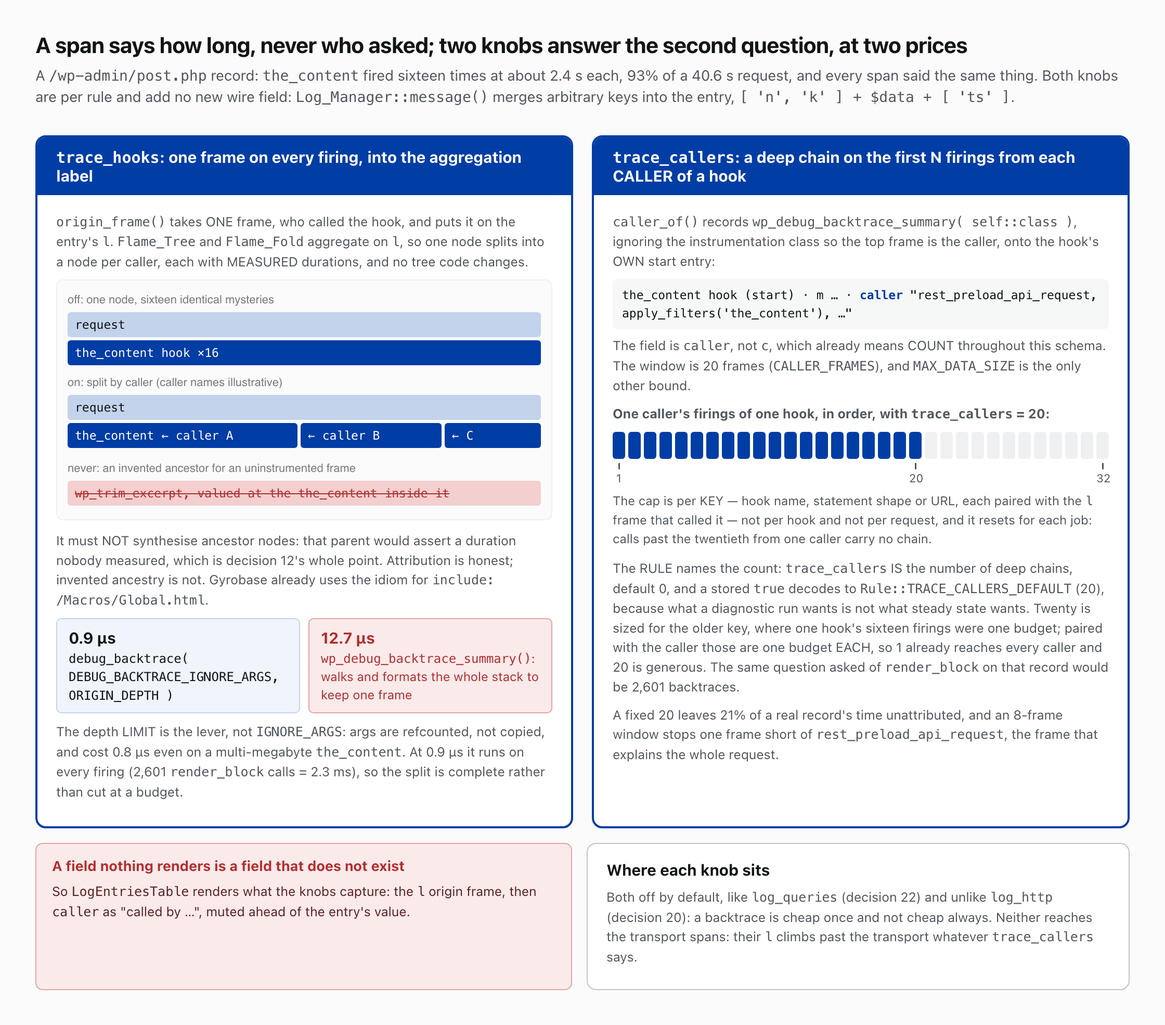
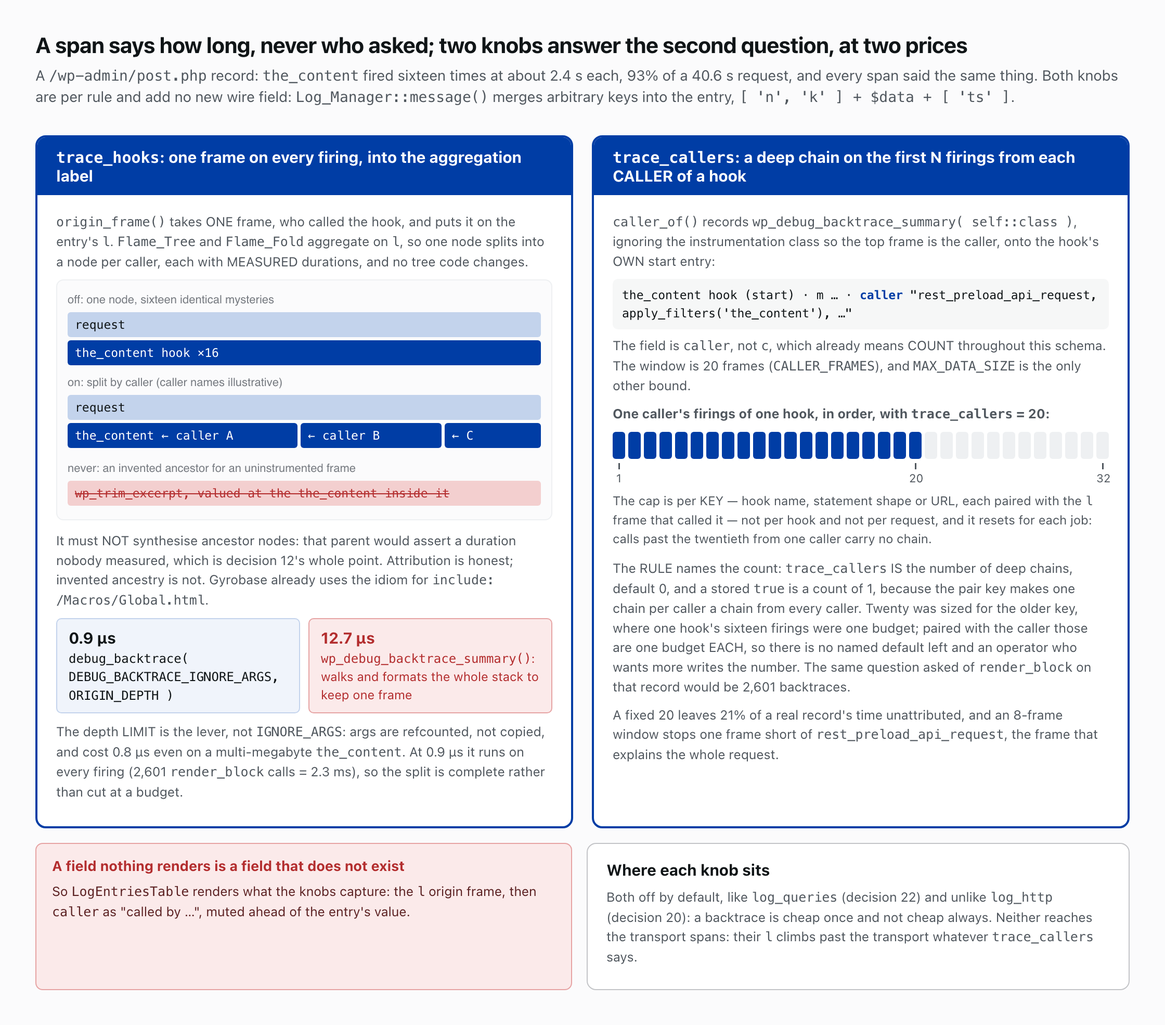
fix(rules): drop the named trace-callers default, unsqueeze its row
TRACE_CALLERS_DEFAULT was never a default. The editor seeds its field
from the stored value or 0, to_array() writes a typed int, and nothing in
the plugin ever stored `true`, so the constant reached exactly one place:
to_trace_count() decoding a literal `true` from a hand-written upsert.
That now reads as 1, which under the per-caller budget is one chain from
every caller rather than twenty from whichever fired first.

The rule editor's trace row collapsed its help text to one word per line.
rule-edit-trace-count set white-space: nowrap across the whole block, so
its min-content width was the suffix sentence and no flex shrink could go
below it, while the checkbox beside it sat at flex: 1 with a basis of 0.
The suffix wraps now, the checkbox has a 320px floor, and the row wraps
below that. Verified on the rendered settings page.

Changed region(s): [[0.5312, 0.5574, 0.9375, 0.6812]]

diff --git a/docs/img/dec-provenance-knobs.html b/docs/img/dec-provenance-knobs.html
@@ -61,7 +61,7 @@
       <div class="strip"><span class="bt"></span><span class="bt"></span><span class="bt"></span><span class="bt"></span><span class="bt"></span><span class="bt"></span><span class="bt"></span><span class="bt"></span><span class="bt"></span><span class="bt"></span><span class="bt"></span><span class="bt"></span><span class="bt"></span><span class="bt"></span><span class="bt"></span><span class="bt"></span><span class="bt"></span><span class="bt"></span><span class="bt"></span><span class="bt"></span><span></span><span></span><span></span><span></span><span></span><span></span><span></span><span></span><span></span><span></span><span></span><span></span></div>
       <div class="axis2"><span class="tk">1</span><span></span><span></span><span></span><span></span><span></span><span></span><span></span><span></span><span></span><span></span><span></span><span></span><span></span><span></span><span></span><span></span><span></span><span></span><span class="tk">20</span><span></span><span></span><span></span><span></span><span></span><span></span><span></span><span></span><span></span><span></span><span></span><span class="tk">32</span></div>
       <p class="capnote">The cap is per KEY — hook name, statement shape or URL, each paired with the <span class="mono">l</span> frame that called it — not per hook and not per request, and it resets for each job: calls past the twentieth from one caller carry no chain.</p>
-      <p style="margin-top:10px">The RULE names the count: <span class="mono">trace_callers</span> IS the number of deep chains, default 0, and a stored <span class="mono">true</span> decodes to <span class="mono">Rule::TRACE_CALLERS_DEFAULT</span> (20), because what a diagnostic run wants is not what steady state wants. Twenty is sized for the older key, where one hook's sixteen firings were one budget; paired with the caller those are one budget EACH, so 1 already reaches every caller and 20 is generous. The same question asked of <span class="mono">render_block</span> on that record would be 2,601 backtraces.</p>
+      <p style="margin-top:10px">The RULE names the count: <span class="mono">trace_callers</span> IS the number of deep chains, default 0, and a stored <span class="mono">true</span> is a count of 1, because the pair key makes one chain per caller a chain from every caller. Twenty was sized for the older key, where one hook's sixteen firings were one budget; paired with the caller those are one budget EACH, so there is no named default left and an operator who wants more writes the number. The same question asked of <span class="mono">render_block</span> on that record would be 2,601 backtraces.</p>
       <p>A fixed 20 leaves 21% of a real record's time unattributed, and an 8-frame window stops one frame short of <span class="mono">rest_preload_api_request</span>, the frame that explains the whole request.</p>
     </div></div>
 </div>

diff --git a/src/rules/rule-edit-modal.scss b/src/rules/rule-edit-modal.scss
@@ -74,20 +74,30 @@
 		display: flex;
 		align-items: flex-start;
 		gap: 12px;
+		// Below the checkbox's basis the count takes its own line, rather
+		// than the two splitting a width neither can use.
+		flex-wrap: wrap;
 
 		.components-checkbox-control {
-			flex: 1;
+			// A FLOOR, not a share: at `flex: 1` the basis is 0, so the count
+			// beside it — whose suffix is a sentence — claimed the row and
+			// squeezed the help text to one word per line.
+			flex: 1 1 320px;
+			min-width: 0;
 		}
 	}
 
 	.rule-edit-trace-count {
 		display: flex;
-		align-items: center;
+		align-items: baseline;
 		gap: 6px;
-		white-space: nowrap;
+		flex: 0 1 auto;
+		min-width: 0;
 
 		.components-base-control {
 			margin: 0;
+			// The field keeps its width; only the sentence gives way.
+			flex: none;
 		}
 
 		input {

diff --git a/src/rules/__tests__/RuleEditModal.test.js b/src/rules/__tests__/RuleEditModal.test.js
@@ -311,7 +311,7 @@ describe( 'RuleEditModal — log rule fields', () => {
 	} );
 
 	test( 'editing the backtrace count is reflected in the saved draft', () => {
-		// 7 is distinct from 0 (off) and from Rule::TRACE_CALLERS_DEFAULT (20).
+		// 7 is distinct from 0 (off) and from the 1 a stored `true` decodes to.
 		mount( { ...LOG_RULE, trace_hooks: true } );
 		setInput( inDialog( 'input[name="rule-trace-callers"]' ), '7' );
 		click( saveButton() );

diff --git a/includes/class-rule.php b/includes/class-rule.php
@@ -36,17 +36,6 @@ final class Rule {
 	public const HOOKS_INLINE = 'inline';
 
 	/**
-	 * Caller chains one hook, query shape or URL records when `trace_callers`
-	 * is stored as `true` rather than as a count.
-	 *
-	 * Twenty is sized for a hook that fires sixteen times: enough to see a
-	 * repeat whole, few enough that a hot hook stops paying after the first
-	 * twenty. A rule needing a wider window names its own count, because a
-	 * diagnostic run wants what steady state does not.
-	 */
-	public const TRACE_CALLERS_DEFAULT = 20;
-
-	/**
 	 * Hook tier: `hooks` is null and the list lives in a per-rule durable
 	 * option mirrored into memcache, which `Rule_Set::hooks_for()` resolves.
 	 */
@@ -68,7 +57,7 @@ final class Rule {
 	 * @param bool          $log_queries                 Time every SQL query as its own span; needs SAVEQUERIES and costs two entries per query.
 	 * @param bool          $log_http                    Time every outbound HTTP request as its own span, between `pre_http_request` and `http_api_debug`. On by default: a request making no remote calls pays two add_filter() calls and nothing else.
 	 * @param bool          $trace_hooks                 Name the calling frame on each hook entry's aggregation label, so one hook firing sixteen times splits into a flame node per caller. Costs one shallow backtrace per firing.
-	 * @param int           $trace_callers               Deep caller chains recorded per request on a span's start entry as `caller`, budgeted per CALLER of each hook, query statement shape and outbound URL, so a hook asked for from three places traces three times; 0 = off. A stored `true` decodes to self::TRACE_CALLERS_DEFAULT.
+	 * @param int           $trace_callers               Deep caller chains recorded per request on a span's start entry as `caller`, budgeted per CALLER of each hook, query statement shape and outbound URL, so a hook asked for from three places traces three times; 0 = off, and a stored `true` is a count of 1.
 	 *
 	 * @throws \InvalidArgumentException When the pattern is empty, or hooks and hooks_in contradict.
 	 */
@@ -206,8 +195,9 @@ final class Rule {
 	 * @return int Caller chains per hook; 0 when off.
 	 */
 	private static function to_trace_count( mixed $v ): int {
+		// `true` is a count of ONE: the budget keys on the caller.
 		if ( true === $v ) {
-			return self::TRACE_CALLERS_DEFAULT;
+			return 1;
 		}
 		return \max( 0, Core::num_int( $v, 0 ) );
 	}

diff --git a/tests/unit/RuleTest.php b/tests/unit/RuleTest.php
@@ -70,15 +70,16 @@ final class RuleTest extends TestCase {
 	 *
 	 * A fixed cap of 20 left 21% of a real record unattributed and cut the
 	 * stack one frame short of the answer, so the number a diagnostic run wants
-	 * is not the number steady state wants. `true` keeps meaning "the default",
-	 * so a rule written before this still reads.
+	 * is not the number steady state wants. `true` still reads as a count, and
+	 * that count is ONE: the budget keys on the caller, so one chain per caller
+	 * is already a chain from every one of them.
 	 */
-	public function test_trace_callers_is_a_count_and_true_means_the_default(): void {
+	public function test_trace_callers_is_a_count_and_true_means_one(): void {
 		$legacy = Rule::from_array( [ 'id' => 'g7', 'pattern' => '/x', 'action' => 'log', 'trace_callers' => true ] );
 		$tuned  = Rule::from_array( [ 'id' => 'h8', 'pattern' => '/x', 'action' => 'log', 'trace_callers' => 250 ] );
 		$off    = Rule::from_array( [ 'id' => 'i9', 'pattern' => '/x', 'action' => 'log', 'trace_callers' => false ] );
 
-		$this->assertSame( Rule::TRACE_CALLERS_DEFAULT, $legacy->trace_callers );
+		$this->assertSame( 1, $legacy->trace_callers );
 		$this->assertSame( 250, $tuned->trace_callers );
 		$this->assertSame( 0, $off->trace_callers );
 	}

diff --git a/tests/unit/AppCoreTest.php b/tests/unit/AppCoreTest.php
@@ -337,7 +337,7 @@ class AppCoreTest extends TestCase {
 	 * discarded the caller, which on a real admin request is the whole answer.
 	 */
 	public function test_a_caller_trace_keeps_the_nearest_frames(): void {
-		$this->set_governing_rule( $this->tracing_rule( Rule::TRACE_CALLERS_DEFAULT ) );
+		$this->set_governing_rule( $this->tracing_rule( 9 ) );
 		$core = new Core();
 		$ref  = new \ReflectionMethod( Core::class, 'caller_of' );
 

diff --git a/docs/architecture-decisions.md b/docs/architecture-decisions.md
@@ -291,11 +291,11 @@ The fold keeps a head of [`FOLD_KEEP_HEAD`](../includes/class-request-builder-no
 
 Decisions [20](#decision-20-outbound-http-is-timed-as-a-span-and-a-short-circuited-request-opens-nothing) and [22](#decision-22-query-spans-are-the-same-pair-as-decision-20-but-per-rule) add spans; this one adds PROVENANCE, because a hook that fires sixteen times reads as sixteen identical mysteries and no amount of timing distinguishes them. A `/wp-admin/post.php` record is the case: `the_content` fires sixteen times at ~2.4s each, 93% of a 40.6s request, and every span says the same thing. What is missing is the caller.
 
-![Two provenance knobs at two prices, from a /wp-admin/post.php record where the_content fired sixteen times at about 2.4 s each, 93 percent of a 40.6 s request. Left, trace_hooks: origin_frame() takes one frame, who called the hook, and puts it on the entry's l, the flame's aggregation label, so one the_content node splits into a node per caller with measured durations and no tree code changes, and it never synthesizes an ancestor such as wp_trim_excerpt for an uninstrumented frame, which would assert a duration nobody measured; debug_backtrace(DEBUG_BACKTRACE_IGNORE_ARGS, ORIGIN_DEPTH) costs 0.9 microseconds against 12.7 for wp_debug_backtrace_summary(), the depth limit being the lever, so it runs on every firing, 2,601 render_block calls costing 2.3 ms. Right, trace_callers: caller_of() records wp_debug_backtrace_summary(self::class) onto the hook's own start entry as caller, not c, which means count throughout the schema; the rule's number is the count of deep chains, default 0, with a stored true decoding to Rule::TRACE_CALLERS_DEFAULT, 20, because what a diagnostic run wants is not what steady state wants, and a strip of one CALLER's firings of one hook shows the first twenty carrying chains and the rest none, with a tick under the twentieth, the cap being per caller of a hook, not per hook and not per request; the window is CALLER_FRAMES, 20 frames, because a fixed 20 leaves 21 percent of a record unattributed and an 8-frame window stops one frame short of rest_preload_api_request. Footer: a field nothing renders does not exist, so LogEntriesTable renders the caller chain as called by …; both knobs are off by default, like log_queries and unlike log_http; and Log_Manager::message() merges arbitrary keys into the entry, [ 'n', 'k' ] + $data + [ 'ts' ], so neither needs a new wire field.](img/dec-provenance-knobs.png)
+![Two provenance knobs at two prices, from a /wp-admin/post.php record where the_content fired sixteen times at about 2.4 s each, 93 percent of a 40.6 s request. Left, trace_hooks: origin_frame() takes one frame, who called the hook, and puts it on the entry's l, the flame's aggregation label, so one the_content node splits into a node per caller with measured durations and no tree code changes, and it never synthesizes an ancestor such as wp_trim_excerpt for an uninstrumented frame, which would assert a duration nobody measured; debug_backtrace(DEBUG_BACKTRACE_IGNORE_ARGS, ORIGIN_DEPTH) costs 0.9 microseconds against 12.7 for wp_debug_backtrace_summary(), the depth limit being the lever, so it runs on every firing, 2,601 render_block calls costing 2.3 ms. Right, trace_callers: caller_of() records wp_debug_backtrace_summary(self::class) onto the hook's own start entry as caller, not c, which means count throughout the schema; the rule's number is the count of deep chains, default 0, with a stored true reading as a count of 1, because the pair key makes one chain per caller a chain from every caller, and a strip of one CALLER's firings of one hook shows the first twenty carrying chains at trace_callers = 20 and the rest none, with a tick under the twentieth, the cap being per caller of a hook, not per hook and not per request; the window is CALLER_FRAMES, 20 frames, because a fixed 20 leaves 21 percent of a record unattributed and an 8-frame window stops one frame short of rest_preload_api_request. Footer: a field nothing renders does not exist, so LogEntriesTable renders the caller chain as called by …; both knobs are off by default, like log_queries and unlike log_http; and Log_Manager::message() merges arbitrary keys into the entry, [ 'n', 'k' ] + $data + [ 'ts' ], so neither needs a new wire field.](img/dec-provenance-knobs.png)
 
 **`trace_hooks` is the cheap one and does the real work**: `origin_frame()` takes ONE frame, who called the hook, and puts it on the entry's `l`, which is the flame's aggregation label, so [`Flame_Tree`](../includes/class-flame-tree.php) and [`Flame_Fold`](../includes/class-flame-fold.php) split `the_content ×16` into one node per caller with MEASURED durations and no new tree code. Gyrobase uses the same idiom for `include: /Macros/Global.html`. It deliberately does NOT call `wp_debug_backtrace_summary()`, which walks and formats the whole stack to produce a string all but one frame of which is discarded: measured at **12.7us against 0.9us** for `debug_backtrace( DEBUG_BACKTRACE_IGNORE_ARGS, ORIGIN_DEPTH )`. The LIMIT is the lever, not `IGNORE_ARGS`: args are refcounted, not copied, and cost 0.8us even on a multi-megabyte `the_content`; depth is what costs. At 0.9us it runs on EVERY firing (2,601 `render_block` calls cost 2.3ms), which makes the split complete rather than truncated at a budget. **What it must NOT do is synthesise ANCESTOR nodes** for the uninstrumented frames: a `wp_trim_excerpt` parent valued at the `the_content` inside it would assert a duration nobody measured, which is [decision 12](#decision-12-a-stat-times-the-request-a-flame-value-is-a-rendering-artifact)'s whole point. Attribution is honest; invented ancestry is not.
 
-**`trace_callers` is the expensive one**, default 0: `caller_of()` records `wp_debug_backtrace_summary( self::class )` onto that span's OWN start entry as `caller`, not `c`, which already means COUNT throughout this schema, ignoring this class so the top frame is the caller and not the instrumentation. **The cap is what makes it affordable, and it is per KEY, not per request** — a hook name, a query's statement shape or an outbound URL, whichever the flame aggregates that span on, PAIRED with `l`, the calling frame that span is already labelled by. A hook fires, a query shape runs and an endpoint is called for the same reason: code asked. Keying the budget per request instead would spend it on the bootstrap and trace none of the 477 taxonomy reads that came later. Keying it on the hook alone has the same failure one level down: `l` is what SPLITS the flame node, so the caller that fires first takes the whole allowance and every other node reads as an unexplained repeat — which is why the number had to be large enough to cover all of them at once. Paired, 1 reaches every caller, and that is the setting to reach for. The RULE names the number: `trace_callers` IS the count of DEEP chains, a stored `true` decoding to `Rule::TRACE_CALLERS_DEFAULT` (20), because what a diagnostic run wants is not what steady state wants: a fixed 20 leaves 21% of one real record's time unattributed. The window is `CALLER_FRAMES`, 20 frames, because an 8-frame window stops one frame short of `rest_preload_api_request`, the frame that explains that whole request, and `Log_Manager::MAX_DATA_SIZE` is the only other bound — which a query start entry meets differently from a hook's: it carries `l` and `caller` but no `m`, so `fit_data()` has no string to trim and the entry drops straight to the floor, keeping `n`, `k`, `ts` and a 1000-byte excerpt. The span still opens, because `Flame_Tree::PATTERN_START` reads `k`. The cap exists because the same question asked of `render_block` on that record would be 2,601 backtraces. Price the whole of it before raising either number: a traced rule pays roughly 12.7us per chain, times the number of KEYS it meets — hook names plus distinct statement shapes plus distinct URLs, none of which the operator declares — and the pair key multiplies that count by the distinct CALLERS of each, which is exactly why the number comes down as the key narrows: sixty shapes at twenty is about 15ms and five hundred is 127ms, where the same sixty shapes asked from three places each at 1 is about 2ms, and a traced query also pays `without_literals()` twice, once for the budget key at the open and once for the statement `m` at the close. A cap that bound tighter used to stop tracing the shape being hunted, which is why the answer was the per-key budget and a rule the operator turns off again rather than a smaller number; narrowing the key to the pair is what makes a smaller number safe, because 1 now buys one chain from EVERY caller instead of one from the first. The budget resets on every scope change, so a worker draining a hundred jobs traces each one rather than spending the request's allowance on the first. Twenty is sized for the older key, where sixteen firings of one hook were one budget and had to fit inside it whole. Under the pair key those sixteen are one budget PER CALLER — three callers, three chains at 1 — so the default is now generous rather than necessary, and `TRACE_CALLERS_DEFAULT` stays 20 only because lowering it would silently change what every stored `true` rule captures. `Log_Manager::message()` merges arbitrary keys into the entry (`[ 'n', 'k' ] + $data + [ 'ts' ]`), so neither knob needs a new wire field. **A field nothing renders is a field that does not exist**, so `LogEntriesTable` renders `l` and then `caller`, as "called by …", muted ahead of the entry's value. Per-rule and off by default, like decision 22 and unlike 21: a backtrace is cheap once and not cheap always.
+**`trace_callers` is the expensive one**, default 0: `caller_of()` records `wp_debug_backtrace_summary( self::class )` onto that span's OWN start entry as `caller`, not `c`, which already means COUNT throughout this schema, ignoring this class so the top frame is the caller and not the instrumentation. **The cap is what makes it affordable, and it is per KEY, not per request** — a hook name, a query's statement shape or an outbound URL, whichever the flame aggregates that span on, PAIRED with `l`, the calling frame that span is already labelled by. A hook fires, a query shape runs and an endpoint is called for the same reason: code asked. Keying the budget per request instead would spend it on the bootstrap and trace none of the 477 taxonomy reads that came later. Keying it on the hook alone has the same failure one level down: `l` is what SPLITS the flame node, so the caller that fires first takes the whole allowance and every other node reads as an unexplained repeat — which is why the number had to be large enough to cover all of them at once. Paired, 1 reaches every caller, and that is the setting to reach for. The RULE names the number: `trace_callers` IS the count of DEEP chains, and a stored `true` is a count of 1, because the pair key makes one chain per caller a chain from every caller. What a diagnostic run wants is not what steady state wants: a fixed 20 leaves 21% of one real record's time unattributed. The window is `CALLER_FRAMES`, 20 frames, because an 8-frame window stops one frame short of `rest_preload_api_request`, the frame that explains that whole request, and `Log_Manager::MAX_DATA_SIZE` is the only other bound — which a query start entry meets differently from a hook's: it carries `l` and `caller` but no `m`, so `fit_data()` has no string to trim and the entry drops straight to the floor, keeping `n`, `k`, `ts` and a 1000-byte excerpt. The span still opens, because `Flame_Tree::PATTERN_START` reads `k`. The cap exists because the same question asked of `render_block` on that record would be 2,601 backtraces. Price the whole of it before raising either number: a traced rule pays roughly 12.7us per chain, times the number of KEYS it meets — hook names plus distinct statement shapes plus distinct URLs, none of which the operator declares — and the pair key multiplies that count by the distinct CALLERS of each, which is exactly why the number comes down as the key narrows: sixty shapes at twenty is about 15ms and five hundred is 127ms, where the same sixty shapes asked from three places each at 1 is about 2ms, and a traced query also pays `without_literals()` twice, once for the budget key at the open and once for the statement `m` at the close. A cap that bound tighter used to stop tracing the shape being hunted, which is why the answer was the per-key budget and a rule the operator turns off again rather than a smaller number; narrowing the key to the pair is what makes a smaller number safe, because 1 now buys one chain from EVERY caller instead of one from the first. The budget resets on every scope change, so a worker draining a hundred jobs traces each one rather than spending the request's allowance on the first. Twenty was sized for the older key, where sixteen firings of one hook were one budget and had to fit inside it whole. Under the pair key those sixteen are one budget PER CALLER — three callers, three chains at 1 — so there is no named default left: `true` reads as 1 and an operator who wants more writes the number. The constant that held 20 is deleted, because it was never a default anywhere: the editor seeds its field from the stored value or 0, `to_array()` writes an int, and nothing in the plugin ever stored `true`. `Log_Manager::message()` merges arbitrary keys into the entry (`[ 'n', 'k' ] + $data + [ 'ts' ]`), so neither knob needs a new wire field. **A field nothing renders is a field that does not exist**, so `LogEntriesTable` renders `l` and then `caller`, as "called by …", muted ahead of the entry's value. Per-rule and off by default, like decision 22 and unlike 21: a backtrace is cheap once and not cheap always.
 
 *Alternatives rejected:* capturing unconditionally for bound hooks (a rule naming sixty hooks pays sixty times per request for an answer nobody asked); tracing only firings AFTER the first, on the reading that a repeat is the signal (the first caller is half the answer: which of the sixteen is the odd one out is exactly what you are reading for); a separate `(called by)` entry (a new keyword that `logEntryUtils` and `Reqgrep_Core` would both have to learn, to carry a field the start entry already had room for). **This decision's revisit condition is MET.** It named a THIRD per-rule diagnostic knob as the trigger, on the reading that two booleans is a pair and three is a flags map. `Rule` carries four, `log_queries`, `log_http`, `trace_hooks` and `trace_callers`, and they are still four separate constructor properties.
 

diff --git a/.claude/skills/event-logger-nodes-workflow/SKILL.md b/.claude/skills/event-logger-nodes-workflow/SKILL.md
@@ -85,7 +85,7 @@ Mirror the new key and its default as a commented entry in `newspack-event-logge
 
 #### Touching the per-URL logging ruleset
 
-Logging is per-URL, never global: there is no `log_urls`, `skip_urls`, `log_events`, `custom_events`, `significant_events`, `auto_disable_threshold` or `auto_protect_time_threshold` setting, and `tests/unit/RetiredConfigKeysTest.php` fails the build on any of the seven reappearing in the schema or a config fixture. What governs instead is an ordered list of `Rule`s (`includes/class-rule.php`), each a URL pattern with a `log` or `skip` action and — for `log` rules — its own hooks, custom events, significant events, auto-tune thresholds, and four diagnostic flags: `log_http` (default **true**, so absent means on), `log_queries` (false; needs `SAVEQUERIES` and costs two entries per query), `trace_hooks` (false; one shallow backtrace per firing, naming the caller on the flame's aggregation label) and `trace_callers` (0 = off; a stored `true` decodes to `Rule::TRACE_CALLERS_DEFAULT`, 20).
+Logging is per-URL, never global: there is no `log_urls`, `skip_urls`, `log_events`, `custom_events`, `significant_events`, `auto_disable_threshold` or `auto_protect_time_threshold` setting, and `tests/unit/RetiredConfigKeysTest.php` fails the build on any of the seven reappearing in the schema or a config fixture. What governs instead is an ordered list of `Rule`s (`includes/class-rule.php`), each a URL pattern with a `log` or `skip` action and — for `log` rules — its own hooks, custom events, significant events, auto-tune thresholds, and four diagnostic flags: `log_http` (default **true**, so absent means on), `log_queries` (false; needs `SAVEQUERIES` and costs two entries per query), `trace_hooks` (false; one shallow backtrace per firing, naming the caller on the flame's aggregation label) and `trace_callers` (0 = off; a stored `true` is a count of 1).
 
 `Log_Manager` builds a `Rule_Matcher` (`includes/class-rule-matcher.php`) per request and resolves the ONE governing rule. Ranking is by SPECIFICITY, not length: query-bearing patterns (`/jobs/x?job-work`) outrank exact paths (`/about?`), which outrank prefixes (`/blog`); length breaks ties only WITHIN a rank, so this is **not** longest-prefix-wins. Matching is case-insensitive, a prefix matches by string rather than path segment (`/wp-cron` governs `/wp-cron.php`), and no match means skip: zero hooks bound and nothing written to the firehose, so no record and no stats key ever follow. Empty means empty; there is no implicit `/` log-all baseline.
 

diff --git a/.claude/skills/event-logger-nodes-debugging/SKILL.md b/.claude/skills/event-logger-nodes-debugging/SKILL.md
@@ -272,7 +272,7 @@ If a hub is missing entries from a spoke, read that `remote:` snapshot — but r
 | `log_http` | on | An `http` span per outbound request, between `pre_http_request` at `PHP_INT_MAX` and `http_api_debug` at `PHP_INT_MIN`. A short-circuited request opens nothing, because WordPress returns it without firing the close |
 | `log_queries` | off | A `sql` span per query, between `query` and `log_query_custom_data`. It defines `SAVEQUERIES` for the life of the process and costs two entries per query |
 | `trace_hooks` | off | The calling frame on each hook entry's `l`, so one hook firing sixteen times splits into a flame node per caller |
-| `trace_callers` | off | A deep backtrace on the start entry's `caller` field, on hook, query and HTTP spans alike, budgeted per CALLER of each hook, statement shape and URL, and reset for each job — a stored `true` decodes to `Rule::TRACE_CALLERS_DEFAULT` (20) |
+| `trace_callers` | off | A deep backtrace on the start entry's `caller` field, on hook, query and HTTP spans alike, budgeted per CALLER of each hook, statement shape and URL, and reset for each job — a stored `true` is a count of 1 |
 
 Both span pairs name their CALLER, never the host or the table, because one host answers nothing when every call goes to the same one. Edit the knobs through the rules editor or the `rules` CI's `upsert`: a record carrying no `sql` rows means `log_queries` is false on its governing rule, not that the bridge broke.
 

diff --git a/.claude/skills/event-logger-nodes-review/SKILL.md b/.claude/skills/event-logger-nodes-review/SKILL.md
@@ -187,7 +187,7 @@ Four flags on `Rule` gate instrumentation, and their defaults differ because the
 | `log_http` | on (absent means on) | Two `add_filter` calls per request; two entries per outbound call |
 | `log_queries` | off | Two entries per QUERY, and it turns `SAVEQUERIES` on |
 | `trace_hooks` | off | One shallow backtrace per hook firing, ~0.9µs |
-| `trace_callers` | 0 | A formatted stack per span, capped per HOOK, QUERY SHAPE and URL at the number the rule names; a stored `true` decodes to `Rule::TRACE_CALLERS_DEFAULT` (20) |
+| `trace_callers` | 0 | A formatted stack per span, capped at the number the rule names per CALLER of each hook, query shape and URL; a stored `true` is a count of 1 |
 
 Three invariants a diff must keep. **The HTTP pair is deliberately unbalanced**: `WP_Http::request()` short-circuits with a bare `return $pre;` and never fires `http_api_debug`, so `http_start` binds at `PHP_INT_MAX` and opens nothing when `$preempt` is not false. **`query_end()` drains `$wpdb->queries`**, which is why `log_queries` cannot be always-on — anything else reading that array would find it empty. **Instrumentation never CONSTRUCTS the logger**: all four callbacks ask `Log_Manager::has_instance()` first, or a binding that outlives its request builds a logger inside the callback and stamps `process (start)` with the wrong moment.
 

diff --git a/CHANGELOG.md b/CHANGELOG.md
@@ -7,6 +7,22 @@ and this project adheres to [Semantic Versioning](https://semver.org/spec/v2.0.0
 
 ## [Unreleased]
 
+### Removed
+- `Rule::TRACE_CALLERS_DEFAULT`. It was never a default: the editor seeds its
+  field from the stored value or 0, `Rule::to_array()` writes an int, and
+  nothing in the plugin ever stored `true`. Its one consumer was
+  `to_trace_count()` decoding a literal `true`, which now reads as a count of
+  1 — the value that, under the per-caller budget, buys one chain from every
+  caller.
+
+### Fixed
+- The rule editor's "Trace hook callers" row collapsed its help text to one
+  word per line. `.rule-edit-trace-count` set `white-space: nowrap` across the
+  whole block, so its min-content width was the suffix sentence on one line and
+  no flex shrink could go below it, while the checkbox beside it sat at
+  `flex: 1` with a basis of 0. The suffix wraps now, the checkbox has a
+  320px floor, and the row wraps below that.
+
 ### Changed
 - `docs/img/dec-provenance-knobs.png` and `dec-http-span.png` regenerated, and
   `scripts/render-diagram.sh` added so the next one is not hand-captured: it

diff --git a/docs/API.md b/docs/API.md
@@ -130,7 +130,7 @@ hub syncs to spokes:
 | `log_queries` | bool | Time every SQL query as its own span. Needs `SAVEQUERIES` and costs two entries per query. Default false. |
 | `log_http` | bool | Time every outbound HTTP request as a span, between `pre_http_request` and `http_api_debug`. **Absent means ON** — only an explicit false retires a live span. |
 | `trace_hooks` | bool | Name the calling frame on each hook entry's aggregation label, so one hook firing sixteen times splits into a flame node per caller. Default false. |
-| `trace_callers` | int | Deep caller chains recorded per request on a span's start entry as `caller`, budgeted per CALLER of each hook, query statement shape and outbound URL; 0 is off, and a stored `true` decodes to `Rule::TRACE_CALLERS_DEFAULT` (20). |
+| `trace_callers` | int | Deep caller chains recorded per request on a span's start entry as `caller`, budgeted per CALLER of each hook, query statement shape and outbound URL; 0 is off, and a stored `true` is a count of 1. |
 
 ### `performance` — the omnibus dashboard CI
 
